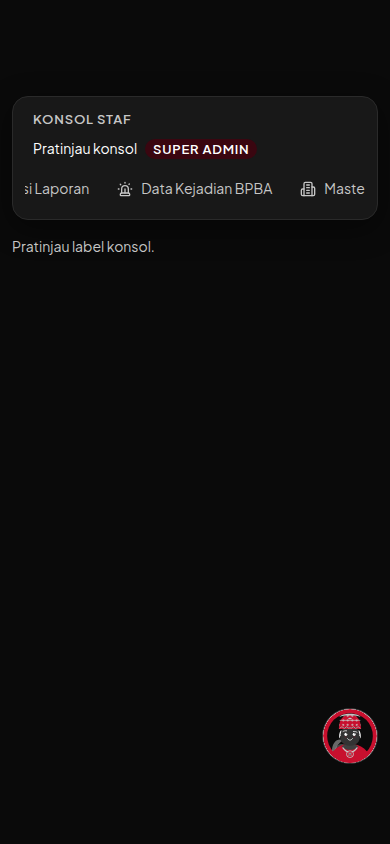
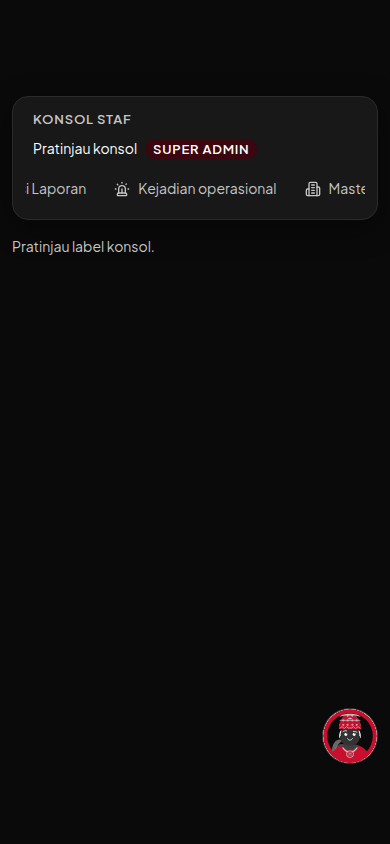
FE-69: restore slogan wording and separate operational incidents
Treat Aceh Tangguh in slogans as a description, label kejadian_operasi as Kejadian operasional, and keep sik_aceh.db as Data Kejadian BPBA. Move map sources to the bottom and lift the Tanggapi panel above the page.

Changed region(s): [[0.2769, 0.2156, 0.7077, 0.2464], [0.0615, 0.2156, 0.2462, 0.2464], [0.7692, 0.2156, 0.9231, 0.2464]]

diff --git a/src/lib/panduan/answers.ts b/src/lib/panduan/answers.ts
@@ -329,7 +329,7 @@ function composeDestana(match: GuideMatch, ctx: GuideContext, locale: GuideLocal
         `Village ${place}.${level} This is resilience status, not an evacuation order.`
       ),
       links: [link("/destana", "linkDestana")],
-      source: t(locale, "SIK publik — Destana / profil desa", "Public SIK — Destana / village profile"),
+      source: t(locale, "SIK Aceh — Destana / profil desa", "SIK Aceh — Destana / village profile"),
     };
   }
   if (ctx.failed.includes("destana") || !ctx.destana) {
@@ -349,7 +349,7 @@ function composeDestana(match: GuideMatch, ctx: GuideContext, locale: GuideLocal
       `Destana summary for ${scope}: not yet ${c.belum ?? 0}, pratama ${c.pratama ?? 0}, madya ${c.madya ?? 0}, utama ${c.utama ?? 0}. This is village resilience status, not an evacuation order.`
     ),
     links: [link("/destana", "linkDestana")],
-    source: t(locale, "SIK publik — Destana", "Public SIK — Destana"),
+    source: t(locale, "SIK Aceh — Destana", "SIK Aceh — Destana"),
   };
 }
 
@@ -383,7 +383,7 @@ function composeNomor(ctx: GuideContext, locale: GuideLocale): GuideAnswer {
       `Published numbers: ${lines}. The full list is on the contacts page.`
     ),
     links: [link("/nomor-penting", "linkNomor")],
-    source: t(locale, "SIK publik — nomor penting", "Public SIK — contacts"),
+    source: t(locale, "SIK Aceh — Nomor penting", "SIK Aceh — contacts"),
   };
 }
 
@@ -406,12 +406,12 @@ function composeKejadian(match: GuideMatch, ctx: GuideContext, locale: GuideLoca
     parts.push(
       t(
         locale,
-        `Data Kejadian BPBA ${ctx.sikStats.year}: ${ctx.sikStats.total} kejadian operasional${top ? `, teratas ${top.jenis} (${top.count})` : ""}.`,
-        `BPBA incident data ${ctx.sikStats.year}: ${ctx.sikStats.total} operational events${top ? `, top ${top.jenis} (${top.count})` : ""}.`
+        `Kejadian operasional ${ctx.sikStats.year}: ${ctx.sikStats.total} kejadian${top ? `, teratas ${top.jenis} (${top.count})` : ""}.`,
+        `Operational incidents ${ctx.sikStats.year}: ${ctx.sikStats.total} events${top ? `, top ${top.jenis} (${top.count})` : ""}.`
       )
     );
   } else if (ctx.failed.includes("sikStats")) {
-    parts.push(failedNote(locale, t(locale, "Data Kejadian BPBA", "BPBA incident data")));
+    parts.push(failedNote(locale, t(locale, "Kejadian operasional", "Operational incidents")));
   }
 
   if (ctx.kejadian) {
@@ -441,7 +441,7 @@ function composeKejadian(match: GuideMatch, ctx: GuideContext, locale: GuideLoca
     intent: "kejadian",
     body: parts.join(" "),
     links: [link("/data-bencana", "linkDataBencana"), link("/peta", "linkPeta")],
-    source: t(locale, "Data Kejadian BPBA + katalog kejadian", "Data Kejadian BPBA + event catalogue"),
+    source: t(locale, "Kejadian operasional + katalog kejadian", "Operational incidents + event catalogue"),
   };
 }
 
@@ -616,7 +616,7 @@ function composePelatihan(ctx: GuideContext, locale: GuideLocale): GuideAnswer {
       `Published training (sample): ${lines}. The full list and requests are on the Training page.`
     ),
     links: [link("/pelatihan", "linkPelatihan")],
-    source: t(locale, "SIK publik — pelatihan", "Public SIK — training"),
+    source: t(locale, "SIK Aceh — Pelatihan", "SIK Aceh — training"),
   };
 }
 
@@ -648,7 +648,7 @@ function composeMitra(ctx: GuideContext, locale: GuideLocale): GuideAnswer {
       `Published partners (sample): ${names}. Operational notes are on the Partners page.`
     ),
     links: [link("/mitra", "linkMitra")],
-    source: t(locale, "SIK publik — mitra", "Public SIK — partners"),
+    source: t(locale, "SIK Aceh — Mitra", "SIK Aceh — partners"),
   };
 }
 

diff --git a/src/components/map/MapFeatureCard.tsx b/src/components/map/MapFeatureCard.tsx
@@ -22,6 +22,14 @@ import { TYPE_FLOOR_CLASS, TYPE_KICKER_CLASS } from "@/lib/type-floor";
 import type { MarkerLayerKey } from "@/lib/types";
 import { cn } from "@/lib/utils";
 
+function sourceHostname(url: string): string {
+  try {
+    return new URL(url).hostname;
+  } catch {
+    return url;
+  }
+}
+
 export async function fetchFeatureCard(id: string, layer?: string): Promise<FeatureCard> {
   const qs = new URLSearchParams();
   if (layer) qs.set("layer", layer);
@@ -190,30 +198,6 @@ export function MapFeatureCard({
         </section>
       ) : null}
 
-      {card?.sources && card.sources.length > 0 ? (
-        <section className="flex flex-col gap-1.5" data-event-sources>
-          <div className={cn("text-[var(--text-dim)]", TYPE_KICKER_CLASS)}>{t("sumber")}</div>
-          <ul className="flex flex-col gap-1">
-            {card.sources.map((entry) => (
-              <li key={entry} className="break-all text-[0.8125rem] leading-snug text-[var(--text)]">
-                {/^https?:\/\//i.test(entry) ? (
-                  <a
-                    href={entry}
-                    target="_blank"
-                    rel="noreferrer"
-                    className="text-[var(--text)] underline-offset-2 hover:underline"
-                  >
-                    {entry}
-                  </a>
-                ) : (
-                  entry
-                )}
-              </li>
-            ))}
-          </ul>
-        </section>
-      ) : null}
-
       {card && card.details.length > 0 ? (
         <section className="flex flex-col gap-1.5">
           <div className={cn("text-[var(--text-dim)]", TYPE_KICKER_CLASS)}>
@@ -281,6 +265,34 @@ export function MapFeatureCard({
             </li>
           ))}
         </ul>
+      ) : null}
+
+      {card?.sources && card.sources.length > 0 ? (
+        <section className="flex flex-col gap-1" data-event-sources>
+          <div className={cn("text-[var(--text-dim)]", TYPE_FLOOR_CLASS)}>{t("sumber")}</div>
+          <ul className="flex flex-col gap-0.5">
+            {card.sources.map((entry) => {
+              const isUrl = /^https?:\/\//i.test(entry);
+              return (
+                <li key={entry} className="text-[0.8125rem] leading-snug text-[var(--text)]">
+                  {isUrl ? (
+                    <a
+                      href={entry}
+                      title={entry}
+                      target="_blank"
+                      rel="noreferrer"
+                      className="text-[var(--text)] underline-offset-2 hover:underline"
+                    >
+                      {sourceHostname(entry)}
+                    </a>
+                  ) : (
+                    entry
+                  )}
+                </li>
+              );
+            })}
+          </ul>
+        </section>
       ) : null}
     </article>
   );

diff --git a/src/lib/panduan/retrieve.ts b/src/lib/panduan/retrieve.ts
@@ -236,18 +236,28 @@ export function contextToChunks(ctx: GuideContext, locale: GuideLocale): Retriev
   }
 
   if (failed.has("sikStats")) {
-    chunks.push(delayedChunk("live:sik-stats", "Data Kejadian BPBA", "/data-bencana", "linkDataBencana", locale));
+    chunks.push(
+      delayedChunk(
+        "live:sik-stats",
+        locale === "en" ? "Operational incidents" : "Kejadian operasional",
+        "/data-bencana",
+        "linkDataBencana",
+        locale,
+      ),
+    );
   } else if (ctx.sikStats) {
     const top = ctx.sikStats.byJenis
       .slice(0, 3)
       .map((row) => `${row.jenis} ${row.count}`)
       .join(", ");
+    const line =
+      locale === "en"
+        ? `Operational incidents ${ctx.sikStats.year}: ${ctx.sikStats.total} events`
+        : `Kejadian operasional ${ctx.sikStats.year}: ${ctx.sikStats.total} kejadian`;
     chunks.push({
       sourceId: "live:sik-stats",
-      title: "Data Kejadian BPBA",
-      text: locale === "en"
-        ? `BPBA incident data ${ctx.sikStats.year}: ${ctx.sikStats.total} events.${top ? ` ${top}.` : ""}`
-        : `Data Kejadian BPBA ${ctx.sikStats.year}: ${ctx.sikStats.total} kejadian.${top ? ` ${top}.` : ""}`,
+      title: line,
+      text: `${line}.${top ? ` ${top}.` : ""}`,
       href: "/data-bencana",
       labelKey: "linkDataBencana",
     });

diff --git a/src/lib/sumber-label.test.ts b/src/lib/sumber-label.test.ts
@@ -17,11 +17,21 @@ describe("disasterEvents source display", () => {
     assert.equal(mixed[2], "sik_aceh.db");
   });
 
-  it("leaves every other source token unchanged", () => {
-    assert.equal(displaySumberEntry("SIK operasional"), "SIK operasional");
-    assert.equal(displaySumberEntry("kejadian-bencana.json"), "kejadian-bencana.json");
+  it("maps sik_aceh.db to Data Kejadian BPBA and operational tokens to Kejadian operasional", () => {
+    const mixed = ["sik_aceh.db", "kejadian_operasi", "SIK operasional", "kejadian-bencana.json"];
+    assert.deepEqual(displaySumberEntries(mixed), [
+      "Data Kejadian BPBA",
+      "Kejadian operasional",
+      "Kejadian operasional",
+      "kejadian-bencana.json",
+    ]);
+    assert.equal(mixed[0], "sik_aceh.db");
+    assert.equal(mixed[1], "kejadian_operasi");
+    assert.equal(mixed[2], "SIK operasional");
     assert.equal(displaySumberEntry("sik_aceh"), "sik_aceh");
     assert.equal(displaySumberEntry("SIK_ACEH.DB"), "SIK_ACEH.DB");
     assert.deepEqual(displaySumberEntries("sik_aceh.db"), ["Data Kejadian BPBA"]);
+    assert.deepEqual(displaySumberEntries("kejadian_operasi"), ["Kejadian operasional"]);
+    assert.deepEqual(displaySumberEntries("SIK operasional"), ["Kejadian operasional"]);
   });
 });

diff --git a/src/lib/sumber-label.ts b/src/lib/sumber-label.ts
@@ -1,10 +1,17 @@
-/** Display label for the BPBA incident master. Not a layer name. */
+/** Display labels for stored source tokens. Tokens themselves are not rewritten. */
 export const SIK_ACEH_DB_SOURCE = "sik_aceh.db";
 export const DATA_KEJADIAN_BPBA_LABEL = "Data Kejadian BPBA";
+export const KEJADIAN_OPERASI_SOURCE = "kejadian_operasi";
+export const SIK_OPERASIONAL_SOURCE = "SIK operasional";
+export const KEJADIAN_OPERASIONAL_LABEL = "Kejadian operasional";
 
-/** Map one stored source token. Only the exact file name is relabeled. */
+/** Map one stored source token. Only exact values are relabeled. */
 export function displaySumberEntry(value: string): string {
-  return value === SIK_ACEH_DB_SOURCE ? DATA_KEJADIAN_BPBA_LABEL : value;
+  if (value === SIK_ACEH_DB_SOURCE) return DATA_KEJADIAN_BPBA_LABEL;
+  if (value === KEJADIAN_OPERASI_SOURCE || value === SIK_OPERASIONAL_SOURCE) {
+    return KEJADIAN_OPERASIONAL_LABEL;
+  }
+  return value;
 }
 
 /**

diff --git a/src/components/panduan/GuidePanel.tsx b/src/components/panduan/GuidePanel.tsx
@@ -69,7 +69,7 @@ export function GuidePanel({
   }, [messages, busy]);
 
   return (
-    <GlassPanel className="flex max-h-[70vh] w-[min(calc(100vw-1.5rem),400px)] flex-col overflow-hidden border border-[var(--glass-border)] shadow-[var(--shadow-elevated)]">
+    <GlassPanel className="flex max-h-[70vh] w-[min(calc(100vw-1.5rem),400px)] flex-col overflow-hidden border border-[var(--glass-border)] !bg-[var(--bg-raised)] shadow-[var(--shadow-elevated)]">
       <div className="flex items-start justify-between gap-3 border-b border-[var(--glass-border)] px-4 py-3">
         <div className="flex items-center gap-3">
           <span className="inline-flex h-9 w-9 shrink-0 overflow-hidden rounded-full bg-[var(--forest-700)]">

diff --git a/src/lib/fe-46-beranda-cuaca-renduk.test.ts b/src/lib/fe-46-beranda-cuaca-renduk.test.ts
@@ -74,7 +74,7 @@ describe("FE-46 cuaca slideshow, copy, footer, renduk", () => {
       beranda: { hero: Record<string, string>; dibi: Record<string, string> };
     };
     assert.match(id.beranda.hero.kicker, /siaga hadapi bencana/i);
-    assert.match(id.beranda.hero.title, /Siapsiaga dan Tanggap untuk SIK Aceh/);
+    assert.match(id.beranda.hero.title, /Siapsiaga dan Tanggap untuk Aceh yang Tangguh/);
     assert.match(id.beranda.hero.lead, /Data prediktif/);
     assert.match(id.beranda.hero.lead, /kajian risiko/);
     assert.equal(id.beranda.dibi.title, "Menghitung Dampak Bencana di Aceh");

diff --git a/src/lib/data-sources.ts b/src/lib/data-sources.ts
@@ -42,7 +42,7 @@ export const DATA_SOURCES: DataSourceEntry[] = [
   {
     id: "sik-aceh",
     titleId: "Data Kejadian BPBA — master SQLite (pengayaan)",
-    titleEn: "BPBA incident data",
+    titleEn: "BPBA incident data — master SQLite (enrichment)",
     source:
       "Local master sik_aceh.db (operator path: data bencana aceh/database/master). Copied to data/sik/sik_aceh.db (gitignored). Not a public dump.",
     license: "Operational BPBA compilation — do not republish the raw SQLite",

diff --git a/src/lib/beranda-produksi.test.ts b/src/lib/beranda-produksi.test.ts
@@ -135,7 +135,7 @@ describe("FE-45 beranda produksi", () => {
     assert.equal(id.hero.ctaPeta, "Buka peta");
     const idTitle = (id.beranda as { hero?: { title?: string } }).hero?.title ?? "";
     const enTitle = (en.beranda as { hero?: { title?: string } }).hero?.title ?? "";
-    assert.match(idTitle, /Siapsiaga dan Tanggap untuk SIK Aceh/);
+    assert.match(idTitle, /Siapsiaga dan Tanggap untuk Aceh yang Tangguh/);
     assert.match(enTitle, /Preparedness and response/i);
   });
 

diff --git a/src/components/panduan/GuideBot.tsx b/src/components/panduan/GuideBot.tsx
@@ -466,7 +466,7 @@ export function GuideBot() {
     <div
       data-tanggapi
       className={cn(
-        "pointer-events-none fixed bottom-[max(5rem,calc(env(safe-area-inset-bottom)+4.5rem))] right-3 z-30 flex flex-col items-end gap-2 sm:right-6",
+        "pointer-events-none fixed bottom-[max(5rem,calc(env(safe-area-inset-bottom)+4.5rem))] right-3 z-[48] flex flex-col items-end gap-2 sm:right-6",
         mobileNavOpen && "hidden",
       )}
     >

diff --git a/docs/pengembangan/jurnal/FE-69.md b/docs/pengembangan/jurnal/FE-69.md
@@ -47,7 +47,8 @@ Deskripsi /en: Sistem Informasi Kebencanaan Aceh — Aceh Disaster Information S
 Kartu /sumber-data#sik-aceh: "Data Kejadian BPBA — master SQLite (pengayaan)"; lisensi "Operational BPBA compilation — do not republish the raw SQLite"
 Popup ACEH-2023-0372: judul "Kebakaran — Aceh Besar", kategori KEJADIAN BENCANA, sumber Kanal Aceh + PDF rekap BPBA + "Data Kejadian BPBA". Token sik_aceh.db tidak tampil.
 Legenda 1440 dan 390: jenis bencana (Kebakaran, Banjir, …). Teks panel tidak memuat "Data Kejadian BPBA".
-Chip konsol 390: "Data Kejadian BPBA", 179×35 px, satu baris, tidak disingkat "BPBA". Sesi staf tidak tersedia; chip adalah AdminShell sungguhan pada rute pratinjau sementara yang dihapus sebelum commit.
+Chip konsol 390: "Kejadian operasional" untuk tab kejadian_operasi. Sesi staf tidak tersedia; chip adalah AdminShell pada rute pratinjau sementara yang dihapus sebelum commit.
+Panel Tanggapi: tumpang tindih yang sama di cabang ini dan di https://aceh-tangguh.vercel.app/id (z-index 30, select #dibi-jenis menutupi input, latar kaca 94%). Diperbaiki di panel saja: z-[48], latar bg-raised padat. Setelah buka, sapaan "SIK Aceh adalah observatorium" terlihat dan input yang diklik adalah #panduan-input.
 Tangkapan: docs/pengembangan/jurnal/fe-69/
 ```
 
@@ -59,6 +60,10 @@ Tangkapan: docs/pengembangan/jurnal/fe-69/
 - [x] Kredit foto, User-Agent, id `sik-aceh`, token `sik_aceh.db`, dan binari peta tidak berubah
 - [x] Hanya token persis `sik_aceh.db` yang dipetakan ke "Data Kejadian BPBA" pada popup
 - [x] Label konsol penuh di 390, tidak disingkat "BPBA"
+
+## Gerbang slogan, kejadian operasional, dan panel Tanggapi
+
+Slogan yang memakai "Aceh Tangguh" sebagai sifat, bukan nama situs, dikembalikan ke artinya: "Siapsiaga dan Tanggap untuk Aceh yang Tangguh", "Siaga untuk Aceh yang tangguh", "Laporkan ke masyarakat Aceh", dan padanan Inggrisnya. Baris `kejadian_operasi` berlabel "Kejadian operasional". Token `sik_aceh.db` tetap "Data Kejadian BPBA". Sitasi diri "SIK publik — …" menjadi "SIK Aceh — …". Bagian Sumber pada popup pindah ke bawah, URL tampil sebagai hostname. Panel Tanggapi naik ke `z-[48]` dengan latar `bg-raised` yang padat. Tumpang tindih yang sama ada di produksi (`z-index` 30, select `#dibi-jenis` menutupi input).
 
 ## Keputusan
 
